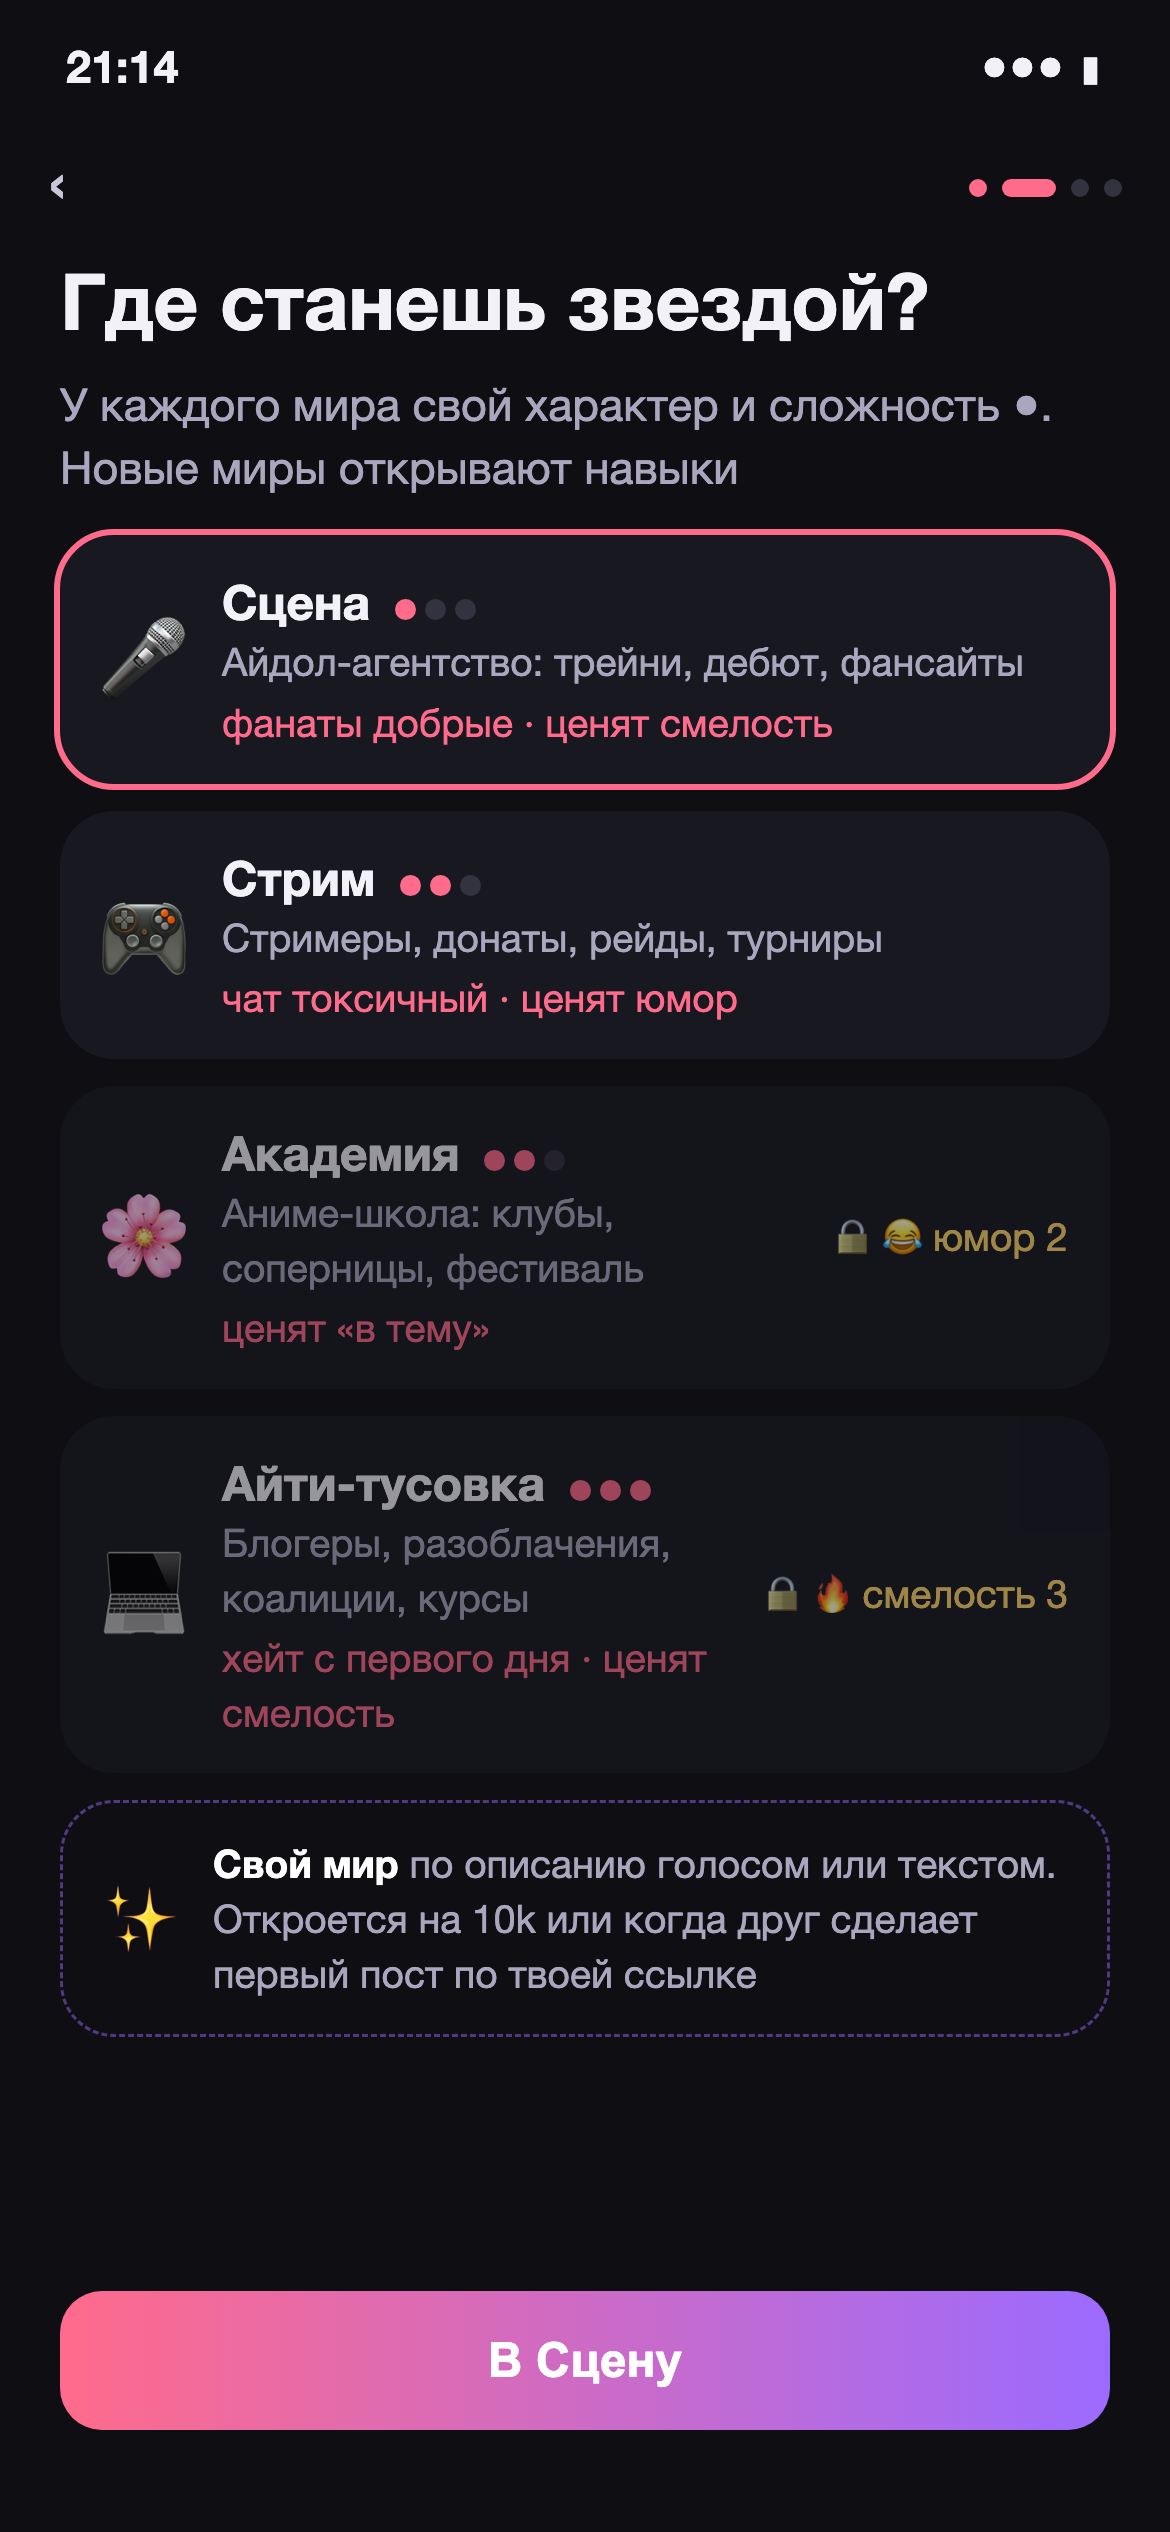
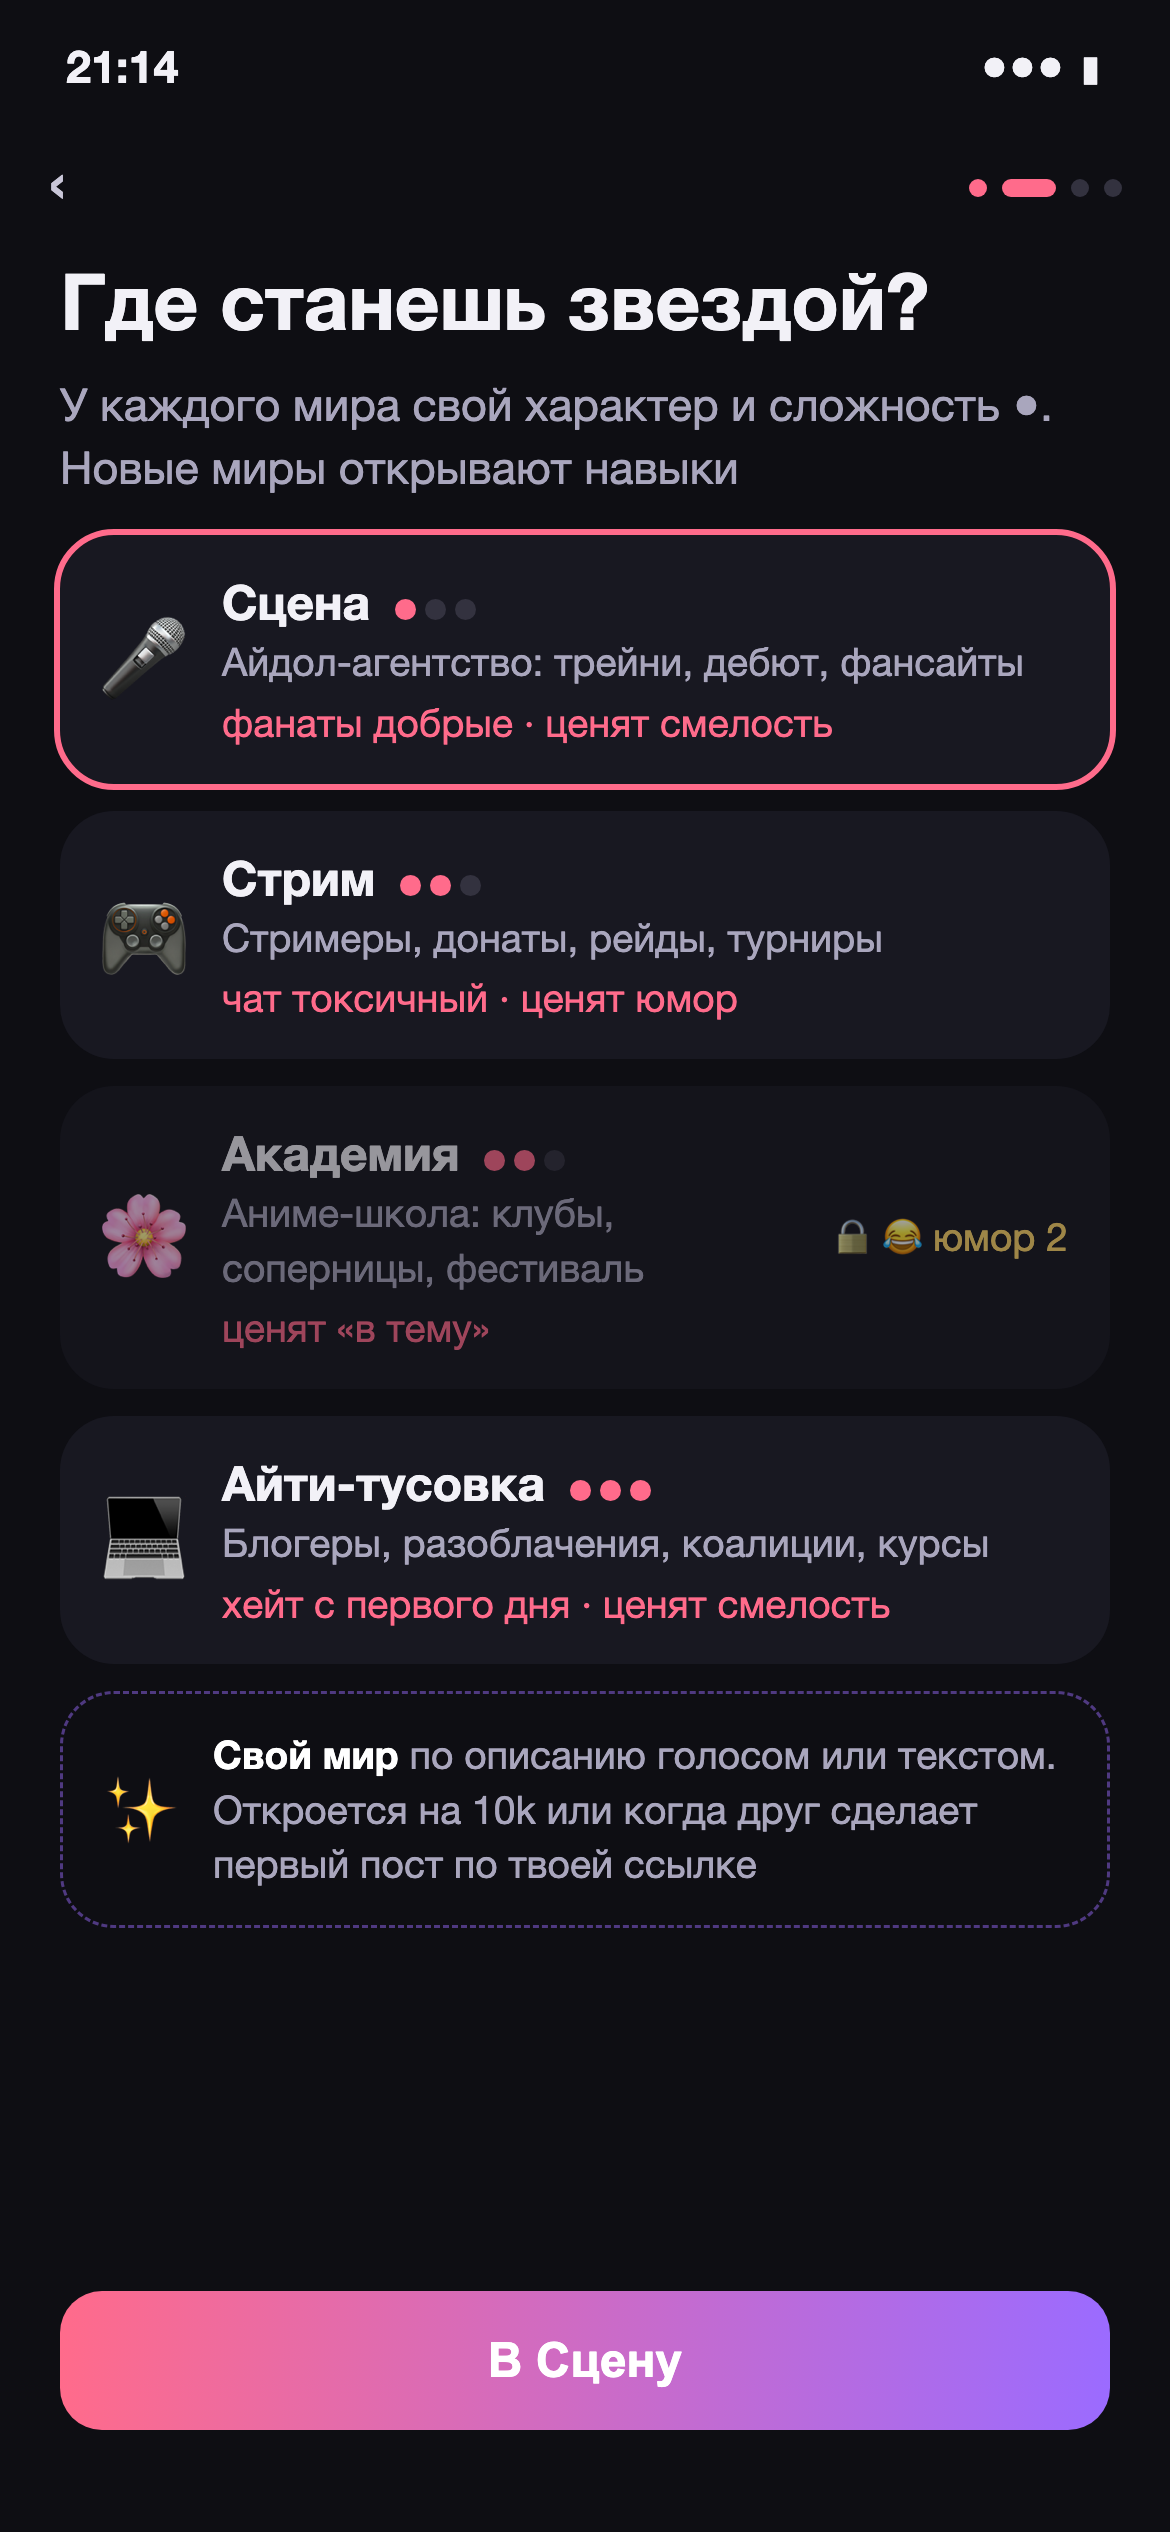
docs: Айти-тусовка открыта сразу на экране 01-3, ×1,3 в итоге поста
Claude-Session: https://claude.ai/code/session_01GQi8uC6KwujzmEq76WAh49

diff --git a/docs/game-flow.md b/docs/game-flow.md
@@ -30,7 +30,7 @@
 
 1. **Пост.** Игрок пишет сам. «Подскажи» дописывает его черновик в голосе канала. Свой текст даёт ×1,3.
 2. **Живая реакция** 2–3 секунды: растут просмотры, приходят реакции и первый комментарий звезды.
-3. **Итог одной карточкой:** ± подписчики, фраза, за что (смелость, юмор, в тему, ×1,5), награды, лучший комментарий, одна главная кнопка.
+3. **Итог одной карточкой:** ± подписчики, фраза, за что (смелость, юмор, в тему, ×1,3), награды, лучший комментарий, одна главная кнопка.
 4. **Провал:** небольшой минус, смешная подпись, навык всё равно растёт, серия дней не сгорает. Не больше 2 провалов подряд.
 5. **Залёт** (пост в Реках): шанс 3% + 6% × качество, первый гарантирован на 3-м посте, дальше хотя бы раз за 15 постов, прирост ×3. Хорошие посты залетают чаще. Главная кнопка «Поделиться».
 6. **Тред:** ответы бесплатны. Первые 3 ответа под постом дают бонус, ветка до 2 шагов, потом комментатор ставит реакцию.
